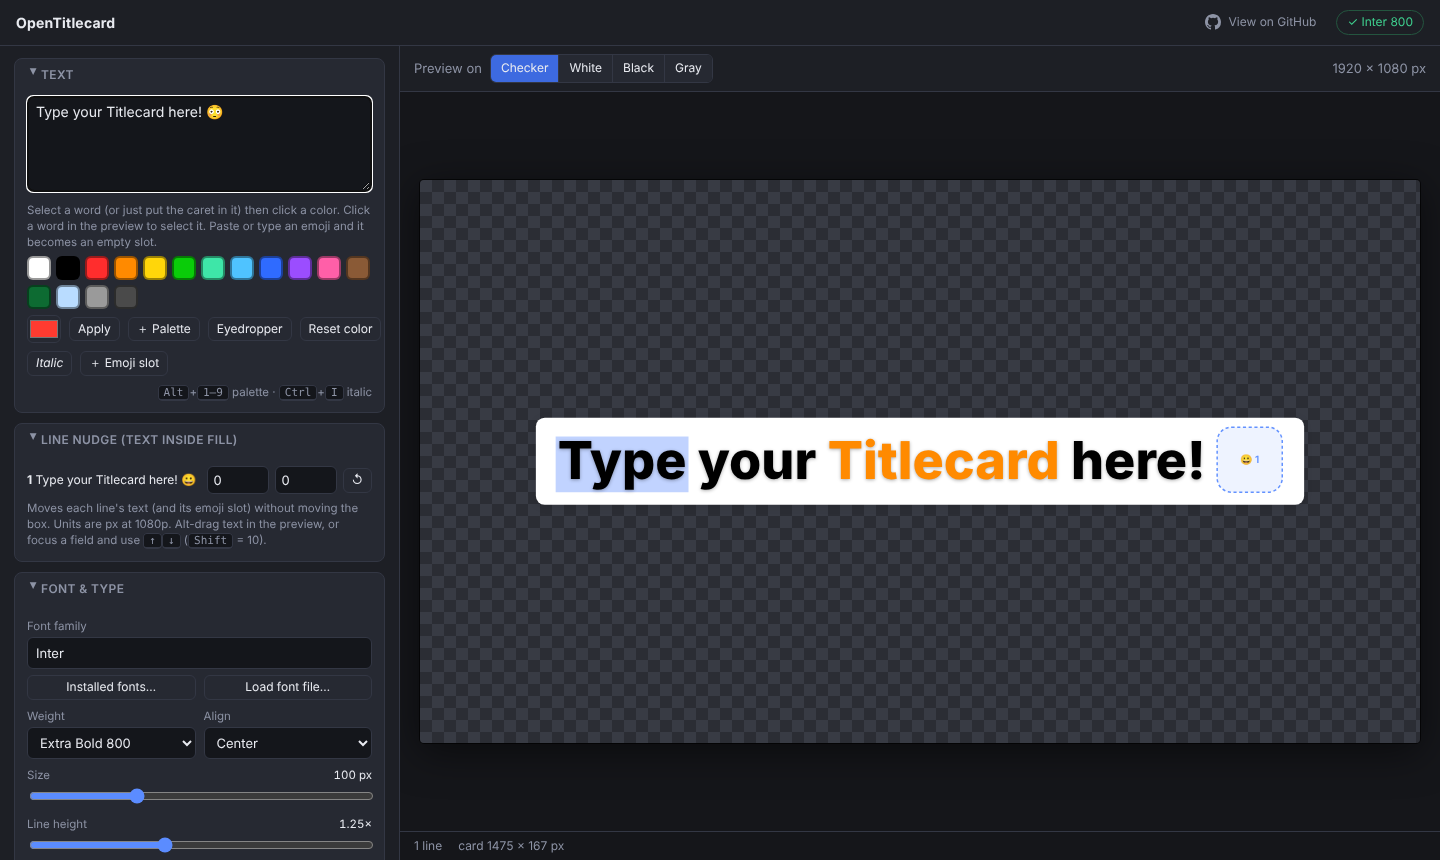
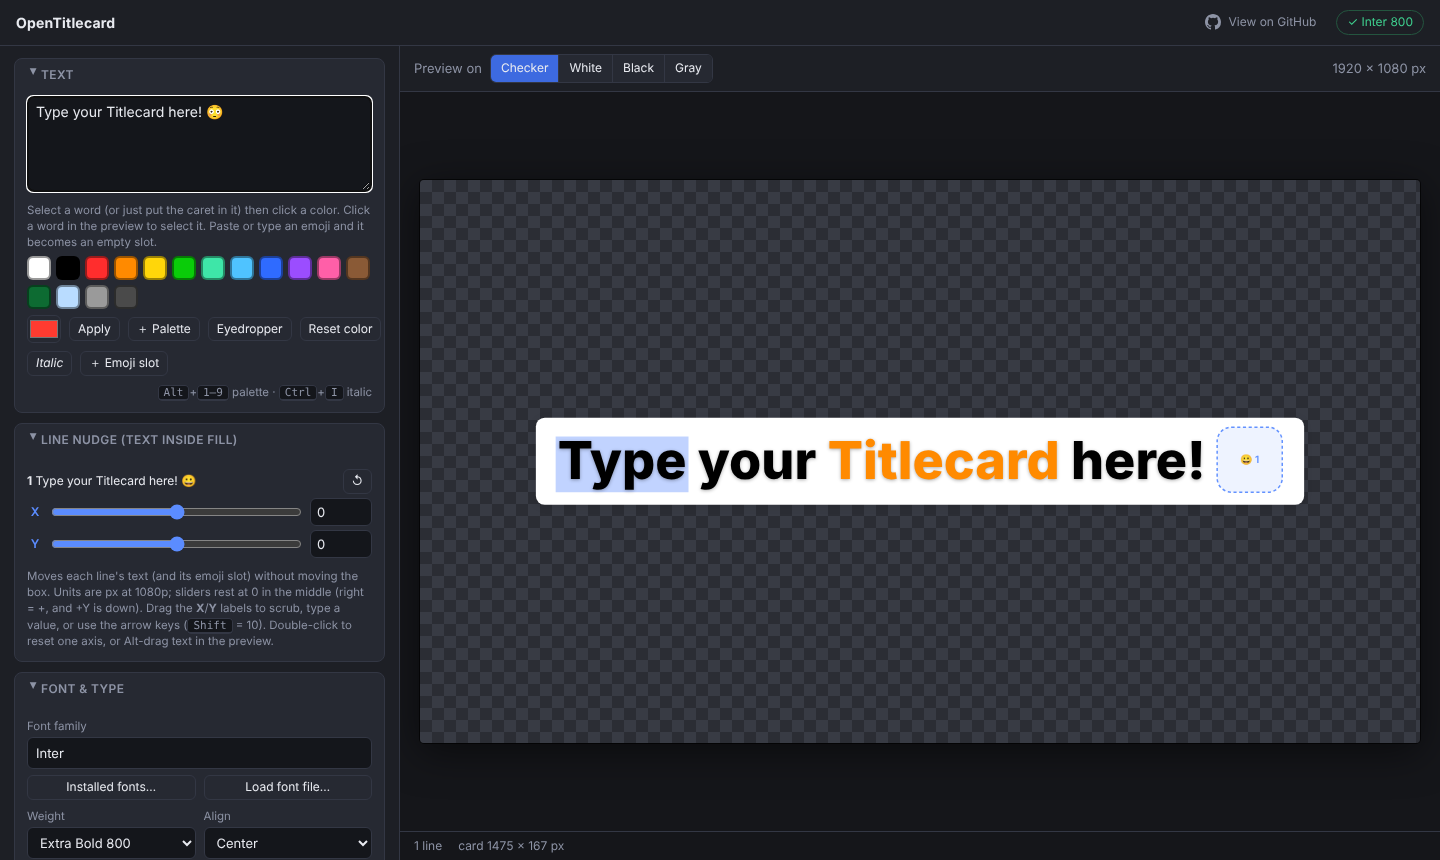
Add Premiere-style X/Y sliders for line nudges (closes #4)
Each line gets, per axis: a slider resting at 0 in the middle (left negative,
right positive, +Y down), a draggable X/Y label to scrub (Shift = 10x), and the
existing number field. All three read and write S.nudges. Arrow keys step by 1
(Shift = 10), double-click resets an axis, drags within +-2 of centre snap to 0,
the slider pins at +-200 while the number field keeps any typed value.

12 new Playwright tests (each of 4 mutants verified to fail). README, CLAUDE.md
and screenshot updated.

Claude-Session: https://claude.ai/code/session_01HzRfhZCyprzouzr7V3SFNZ

diff --git a/index.html b/index.html
@@ -51,9 +51,16 @@
   .sw:hover{outline:2px solid var(--accent);outline-offset:1px}
   .hint{color:var(--mute);font-size:11.5px;margin-top:6px}
   .val{float:right;color:var(--text);font-variant-numeric:tabular-nums}
-  .nudge{display:grid;grid-template-columns:1fr 62px 62px auto;gap:6px;align-items:center;margin:5px 0}
+  .nudge{display:grid;grid-template-columns:1fr auto;gap:4px 6px;align-items:center;margin:8px 0 10px;padding-bottom:9px;border-bottom:1px dashed var(--line)}
+  .nudge:last-child{border-bottom:0;padding-bottom:0}
   .nudge .nm{overflow:hidden;white-space:nowrap;text-overflow:ellipsis;font-size:12px}
-  .nudge input{padding:4px 6px}
+  .nudge .ax{grid-column:1 / -1;display:grid;grid-template-columns:16px 1fr 62px;gap:8px;align-items:center}
+  .nudge input[type=number]{padding:4px 6px}
+  .nudge .scrub{cursor:ew-resize;color:var(--accent);font-weight:600;font-size:12px;text-align:center;user-select:none;touch-action:none}
+  .nudge .slw{position:relative;display:flex;align-items:center}
+  .nudge .slw:before{content:"";position:absolute;left:50%;top:50%;width:1px;height:12px;margin-top:-6px;background:var(--mute);opacity:.55;pointer-events:none} /* centre (0) tick */
+  .nudge input[type=range]{margin:0;position:relative}
+  .nudge input:focus-visible,.nudge .scrub:focus-visible{outline:2px solid var(--accent);outline-offset:2px}
   .slotrow{font-variant-numeric:tabular-nums;font-size:12px;padding:4px 0;border-bottom:1px dashed var(--line);display:flex;gap:8px;align-items:center}
   .slotrow code{color:var(--accent);background:#14161b;padding:1px 6px;border-radius:4px}
   .toolbar{display:flex;gap:8px;align-items:center;padding:8px 14px;border-bottom:1px solid var(--line);background:var(--panel);flex-wrap:wrap}
@@ -110,7 +117,7 @@
     <summary>Line nudge (text inside fill)</summary>
     <div class="body">
       <div id="nudges"></div>
-      <div class="hint">Moves each line's text (and its emoji slot) without moving the box. Units are px at 1080p. Alt-drag text in the preview, or focus a field and use <kbd>↑</kbd><kbd>↓</kbd> (<kbd>Shift</kbd> = 10).</div>
+      <div class="hint">Moves each line's text (and its emoji slot) without moving the box. Units are px at 1080p; sliders rest at 0 in the middle (right = +, and +Y is down). Drag the <b>X</b>/<b>Y</b> labels to scrub, type a value, or use the arrow keys (<kbd>Shift</kbd> = 10). Double-click to reset one axis, or Alt-drag text in the preview.</div>
     </div>
   </details>
 
@@ -537,7 +544,19 @@ function updateSlotInfo(g){
 }
 
 /* ============ nudge rows ============ */
-let nudgeSig='';
+/* Each line gets an X and a Y control: a slider that rests in the middle (0), a scrub label (drag it) and a number
+   field. The slider track covers +-NUDGE_RANGE; the number field accepts any value, and the slider simply pins
+   to its end beyond that. S.nudges[i] = {x,y} is the single source of truth; every control reads and writes it. */
+const NUDGE_RANGE=200, NUDGE_DETENT=2;   // drags within +-2 of centre snap to exactly 0
+let nudgeSig='', sliderDrag=false;
+const nudgeVal=(i,a)=>(S.nudges[i]||{})[a]||0;
+function setNudge(i,a,v){ const n=S.nudges[i]||(S.nudges[i]={x:0,y:0}); n[a]=v; render(); }
+function axisHTML(i,a,v){
+  const A=a.toUpperCase();
+  return `<div class="ax"><span class="scrub" data-scrub="${a}" data-line="${i}" title="Drag to scrub ${A}. Shift = 10x. Double-click to reset.">${A}</span>
+    <div class="slw"><input type="range" min="${-NUDGE_RANGE}" max="${NUDGE_RANGE}" step="1" value="${clamp(v,-NUDGE_RANGE,NUDGE_RANGE)}" data-slider="${a}" data-line="${i}" aria-label="Line ${i+1} ${A} offset" title="${A}: centre = 0. Double-click to reset."></div>
+    <input type="number" step="1" data-i="${i}" data-a="${a}" value="${v}" title="${A}" aria-label="Line ${i+1} ${A} offset value"></div>`;
+}
 function syncNudgeRows(){
   const sig=L.lines.map(l=>l.items.map(i=>i.k==='t'?i.text:'·').join('')).join('|');
   const host=$('#nudges');
@@ -547,25 +566,56 @@ function syncNudgeRows(){
       const n=S.nudges[i]||(S.nudges[i]={x:0,y:0});
       const row=document.createElement('div'); row.className='nudge';
       const name=l.items.map(it=>it.k==='t'?it.text:'😀').join('');
-      row.innerHTML=`<div class="nm" title="${name.replace(/"/g,'&quot;')}"><b>${i+1}</b> ${name.replace(/</g,'&lt;')}</div>
-        <input type="number" step="1" data-i="${i}" data-a="x" value="${n.x}" title="X"><input type="number" step="1" data-i="${i}" data-a="y" value="${n.y}" title="Y"><button class="sm" data-reset="${i}" title="Reset">↺</button>`;
+      row.innerHTML=`<div class="nm" title="${name.replace(/"/g,'&quot;')}"><b>${i+1}</b> ${name.replace(/</g,'&lt;')}</div><button class="sm" data-reset="${i}" title="Reset both axes" aria-label="Reset line ${i+1} nudge">↺</button>`
+        +axisHTML(i,'x',n.x||0)+axisHTML(i,'y',n.y||0);
       host.appendChild(row);
     });
   } else {
-    host.querySelectorAll('input[data-i]').forEach(inp=>{ const v=(S.nudges[+inp.dataset.i]||{})[inp.dataset.a]||0; if(document.activeElement!==inp) inp.value=v; });
+    host.querySelectorAll('input[data-i]').forEach(inp=>{ const v=nudgeVal(+inp.dataset.i,inp.dataset.a); if(document.activeElement!==inp) inp.value=v; });
+    host.querySelectorAll('input[data-slider]').forEach(sl=>{ sl.value=clamp(nudgeVal(+sl.dataset.line,sl.dataset.slider),-NUDGE_RANGE,NUDGE_RANGE); });
   }
 }
-$('#nudges').addEventListener('input',e=>{
-  const t=e.target; if(!t.dataset.i) return;
-  const n=S.nudges[+t.dataset.i]||(S.nudges[+t.dataset.i]={x:0,y:0}); n[t.dataset.a]=+t.value||0; render();
+const nudgeHost=$('#nudges');
+nudgeHost.addEventListener('input',e=>{
+  const t=e.target;
+  if(t.dataset.slider){
+    let v=+t.value;
+    if(sliderDrag && Math.abs(v)<=NUDGE_DETENT) v=0;    // detent while dragging only, so keyboard steps still reach +-1
+    setNudge(+t.dataset.line,t.dataset.slider,v); return;
+  }
+  if(t.dataset.i) setNudge(+t.dataset.i,t.dataset.a,+t.value||0);
 });
-$('#nudges').addEventListener('keydown',e=>{
-  const t=e.target; if(!t.dataset||!t.dataset.i) return;
-  if((e.key==='ArrowUp'||e.key==='ArrowDown')&&e.shiftKey){ e.preventDefault(); t.value=(+t.value||0)+(e.key==='ArrowUp'?10:-10); t.dispatchEvent(new Event('input',{bubbles:true})); }
+nudgeHost.addEventListener('keydown',e=>{
+  const t=e.target; if(!t.dataset) return;
+  if(t.dataset.slider && e.shiftKey && /^Arrow/.test(e.key)){          // Shift+arrow = 10, like the number field
+    e.preventDefault(); const d=(e.key==='ArrowRight'||e.key==='ArrowUp')?10:-10;
+    setNudge(+t.dataset.line,t.dataset.slider,nudgeVal(+t.dataset.line,t.dataset.slider)+d); return;
+  }
+  if(t.dataset.i && (e.key==='ArrowUp'||e.key==='ArrowDown')&&e.shiftKey){ e.preventDefault(); t.value=(+t.value||0)+(e.key==='ArrowUp'?10:-10); t.dispatchEvent(new Event('input',{bubbles:true})); }
 });
-$('#nudges').addEventListener('click',e=>{
+nudgeHost.addEventListener('click',e=>{
   const b=e.target.closest('[data-reset]'); if(!b) return; S.nudges[+b.dataset.reset]={x:0,y:0}; nudgeSig=''; render();
 });
+nudgeHost.addEventListener('dblclick',e=>{
+  const t=e.target.closest('[data-slider],[data-scrub]'); if(!t) return;
+  setNudge(+t.dataset.line,t.dataset.slider||t.dataset.scrub,0);
+});
+// Scrubbing: drag the X/Y label sideways (1 px = 1 unit, Shift = 10). Accumulates per move so pressing Shift
+// mid-drag changes speed without making the value jump.
+let scrub=null;
+nudgeHost.addEventListener('pointerdown',e=>{
+  if(e.target.dataset && e.target.dataset.slider) sliderDrag=true;
+  const t=e.target.closest('[data-scrub]'); if(!t) return;
+  e.preventDefault(); t.setPointerCapture(e.pointerId);
+  scrub={line:+t.dataset.line,a:t.dataset.scrub,x:e.clientX,v:nudgeVal(+t.dataset.line,t.dataset.scrub)};
+});
+nudgeHost.addEventListener('pointermove',e=>{
+  if(!scrub) return;
+  scrub.v+=(e.clientX-scrub.x)*(e.shiftKey?10:1); scrub.x=e.clientX;
+  setNudge(scrub.line,scrub.a,Math.round(scrub.v));
+});
+const endNudgeDrag=()=>{ scrub=null; sliderDrag=false; };
+window.addEventListener('pointerup',endNudgeDrag); window.addEventListener('pointercancel',endNudgeDrag);
 
 /* ============ text input + run attributes ============ */
 const ta=$('#text');

diff --git a/tests/nudge-sliders.spec.js b/tests/nudge-sliders.spec.js
@@ -1,0 +1,153 @@
+const { test, expect, setText, settle } = require('./helpers');
+
+// Premiere-style X/Y controls for each line's text nudge (issue #4).
+const slider = (page, line, axis) => page.locator(`#nudges input[data-slider="${axis}"][data-line="${line}"]`);
+const number = (page, line, axis) => page.locator(`#nudges input[data-i="${line}"][data-a="${axis}"]`);
+const scrubber = (page, line, axis) => page.locator(`#nudges [data-scrub="${axis}"][data-line="${line}"]`);
+const nudge = (page, i) => page.evaluate((i) => ({ ...__tt.S.nudges[i] }), i);
+
+async function centerOf(loc) {
+  const b = await loc.boundingBox();
+  return { x: b.x + b.width / 2, y: b.y + b.height / 2, w: b.width };
+}
+
+test.describe('line nudge sliders', () => {
+  test('every line has an X and a Y slider resting at the exact middle', async ({ app: { page } }) => {
+    await setText(page, 'First line\nSecond');
+    await expect(page.locator('#nudges .nudge')).toHaveCount(2);
+    for (const line of [0, 1]) for (const axis of ['x', 'y']) {
+      const s = slider(page, line, axis);
+      await expect(s).toHaveAttribute('min', '-200');
+      await expect(s).toHaveAttribute('max', '200');
+      await expect(s).toHaveValue('0'); // value 0 of a symmetric range = middle of the track
+      await expect(s).toHaveAttribute('aria-label', `Line ${line + 1} ${axis.toUpperCase()} offset`);
+    }
+  });
+
+  test('left of centre is negative, right is positive (keyboard)', async ({ app: { page } }) => {
+    await slider(page, 0, 'x').focus();
+    await page.keyboard.press('ArrowRight');
+    expect((await nudge(page, 0)).x).toBe(1);
+    await page.keyboard.press('ArrowLeft'); await page.keyboard.press('ArrowLeft');
+    expect((await nudge(page, 0)).x).toBe(-1); // steps of 1, and it can cross zero both ways
+    await slider(page, 0, 'y').focus();
+    await page.keyboard.press('ArrowRight');
+    expect((await nudge(page, 0)).y).toBe(1);
+    await settle(page);
+    expect(await page.evaluate(() => __tt.L.lines[0].ny)).toBeGreaterThan(0); // +Y moves the text down, like Premiere
+  });
+
+  test('dragging the thumb left gives a negative value, right a positive one, live in the preview', async ({ app: { page } }) => {
+    const s = slider(page, 0, 'x');
+    const c = await centerOf(s);
+    await page.mouse.move(c.x, c.y); await page.mouse.down();
+    await page.mouse.move(c.x - c.w * 0.25, c.y, { steps: 6 });
+    const during = await nudge(page, 0); // still mouse-down: the preview already follows
+    expect(during.x).toBeLessThan(-20);
+    await page.mouse.up();
+    await expect(number(page, 0, 'x')).toHaveValue(String(during.x));
+    await settle(page);
+    expect(await page.evaluate(() => __tt.L.lines[0].nx)).toBe(during.x);
+    // and to the right of centre
+    const c2 = await centerOf(s);
+    await page.mouse.move(c2.x, c2.y); await page.mouse.down();
+    await page.mouse.move(c2.x + c2.w * 0.4, c2.y, { steps: 6 }); await page.mouse.up();
+    expect((await nudge(page, 0)).x).toBeGreaterThan(0);
+  });
+
+  test('a small drag near the centre snaps to exactly 0', async ({ app: { page } }) => {
+    const s = slider(page, 0, 'x');
+    const c = await centerOf(s);
+    await page.mouse.move(c.x, c.y); await page.mouse.down();
+    await page.mouse.move(c.x + 1, c.y); await page.mouse.up(); // 1px is ~1.6 units on this track
+    expect((await nudge(page, 0)).x).toBe(0);
+    await expect(s).toHaveValue('0');
+  });
+
+  test('the slider and the number field stay in sync both ways', async ({ app: { page } }) => {
+    await page.fill('#nudges input[data-i="0"][data-a="y"]', '75');
+    await expect(slider(page, 0, 'y')).toHaveValue('75');
+    await slider(page, 0, 'y').focus();
+    await page.keyboard.press('ArrowLeft');
+    await expect(number(page, 0, 'y')).toHaveValue('74');
+    // programmatic / preview changes (Alt-drag uses the same state) show up in the sliders too
+    await page.evaluate(() => { __tt.S.nudges[0] = { x: 25, y: -5 }; __tt.renderNow(); });
+    await expect(slider(page, 0, 'x')).toHaveValue('25');
+    await expect(slider(page, 0, 'y')).toHaveValue('-5');
+  });
+
+  test('typing past the slider range keeps the real value; the slider pins to its end', async ({ app: { page } }) => {
+    await page.fill('#nudges input[data-i="0"][data-a="x"]', '350');
+    await expect(slider(page, 0, 'x')).toHaveValue('200');
+    await expect(number(page, 0, 'x')).toHaveValue('350');
+    expect((await nudge(page, 0)).x).toBe(350);
+    await page.fill('#nudges input[data-i="0"][data-a="x"]', '-999');
+    await expect(slider(page, 0, 'x')).toHaveValue('-200');
+    expect((await nudge(page, 0)).x).toBe(-999);
+  });
+
+  test('double-click resets that axis only, and the thumb returns to the exact middle', async ({ app: { page } }) => {
+    await page.fill('#nudges input[data-i="0"][data-a="x"]', '60');
+    await page.fill('#nudges input[data-i="0"][data-a="y"]', '-30');
+    await slider(page, 0, 'x').dblclick();
+    expect(await nudge(page, 0)).toEqual({ x: 0, y: -30 });
+    await expect(slider(page, 0, 'x')).toHaveValue('0');
+    await scrubber(page, 0, 'y').dblclick();
+    expect(await nudge(page, 0)).toEqual({ x: 0, y: 0 });
+    await expect(slider(page, 0, 'y')).toHaveValue('0');
+  });
+
+  test('Shift+Arrow on a slider steps by 10', async ({ app: { page } }) => {
+    await slider(page, 0, 'x').focus();
+    await page.keyboard.press('Shift+ArrowRight');
+    expect((await nudge(page, 0)).x).toBe(10);
+    await page.keyboard.press('Shift+ArrowLeft'); await page.keyboard.press('Shift+ArrowLeft');
+    expect((await nudge(page, 0)).x).toBe(-10);
+  });
+
+  test('dragging the X/Y label scrubs the value; Shift scrubs 10x faster', async ({ app: { page } }) => {
+    const c = await centerOf(scrubber(page, 0, 'x'));
+    await page.mouse.move(c.x, c.y); await page.mouse.down();
+    await page.mouse.move(c.x + 30, c.y, { steps: 5 });
+    expect((await nudge(page, 0)).x).toBe(30);
+    await page.keyboard.down('Shift');
+    await page.mouse.move(c.x + 35, c.y, { steps: 1 }); // +5px at 10x = +50
+    await page.keyboard.up('Shift');
+    await page.mouse.up();
+    expect((await nudge(page, 0)).x).toBe(80);
+    await expect(slider(page, 0, 'x')).toHaveValue('80');
+    await expect(number(page, 0, 'x')).toHaveValue('80');
+  });
+
+  test('sliders move only the text, never the box', async ({ app: { page } }) => {
+    await setText(page, 'One\nTwo words');
+    const before = await settle(page);
+    await slider(page, 1, 'x').focus();
+    for (let i = 0; i < 25; i++) await page.keyboard.press('ArrowRight');
+    const after = await settle(page);
+    expect(after.lines[1].nx).toBe(25);
+    expect([after.cardW, after.cardH]).toEqual([before.cardW, before.cardH]);
+    expect(after.lines.map((l) => [l.x0, l.x1, l.y0, l.y1])).toEqual(before.lines.map((l) => [l.x0, l.x1, l.y0, l.y1]));
+  });
+
+  test('rows and sliders follow the line count and keep each line\'s value', async ({ app: { page } }) => {
+    await setText(page, 'a\nb');
+    await page.fill('#nudges input[data-i="0"][data-a="x"]', '30');
+    await setText(page, 'a\nb\nc');
+    await expect(page.locator('#nudges input[data-slider]')).toHaveCount(6);
+    await expect(slider(page, 0, 'x')).toHaveValue('30');
+    await expect(slider(page, 2, 'y')).toHaveValue('0');
+    await setText(page, 'a');
+    await expect(page.locator('#nudges input[data-slider]')).toHaveCount(2);
+  });
+
+  test('the reset button still zeroes both axes and both controls', async ({ app: { page } }) => {
+    await page.fill('#nudges input[data-i="0"][data-a="x"]', '30');
+    await page.fill('#nudges input[data-i="0"][data-a="y"]', '-30');
+    await page.click('#nudges [data-reset="0"]');
+    expect(await nudge(page, 0)).toEqual({ x: 0, y: 0 });
+    await expect(slider(page, 0, 'x')).toHaveValue('0');
+    await expect(slider(page, 0, 'y')).toHaveValue('0');
+    await expect(number(page, 0, 'x')).toHaveValue('0');
+  });
+});

diff --git a/README.md b/README.md
@@ -28,7 +28,7 @@ OpenTitlecard fixes each of those. Emoji are handled as an empty, correctly-size
 - **Emoji slots.** Type or paste an emoji and it becomes a blank slot in the layout. The background box wraps around it exactly as it would around the real thing. The slot is outlined in the preview only, never in the export.
 - **Smart background box.** Each line gets its own rounded box, with inverse corners where line widths differ, like TikTok's own captions. The box grows downward automatically when descenders (`g`, `y`, `p`, `q`, `j`) or an emoji would crowd the bottom edge.
 - **Optional auto-wrap.** Set a **Max card width** and long lines wrap at spaces to fit, with the padding included. Your own line breaks always win, and color, italic and emoji slots carry through the wrap.
-- **Line nudge.** Fine-tune the X/Y position of each line's text inside its box. Use the fields, arrow keys (**Shift** = 10px), or **Alt**-drag a line in the preview.
+- **Line nudge.** Fine-tune the X/Y position of each line's text inside its box with Premiere-style controls: a slider per axis that rests at 0 in the middle (left = negative, right = positive, +Y is down), a number field, and a draggable **X**/**Y** label to scrub. Arrow keys step by 1 (**Shift** = 10), double-click resets an axis, and **Alt**-drag a line in the preview works too.
 - **Bring your own font.** Pick any installed font, or load a `.ttf`, `.otf`, `.woff` or `.woff2` file for a client's brand font.
 - **Background control.** Color, opacity, padding, corner radius, top/bottom margins, and optional soft shadows. Text outline and text shadow are available too.
 - **Transparent PNG export.** Full-frame at 1920×1080, 1080×1920, 3840×2160, 1080×1080, 1080×1350 or a custom size, or a tight crop of just the card at up to 4×.

diff --git a/CLAUDE.md b/CLAUDE.md
@@ -26,7 +26,7 @@ Tooling note: in Claude Code web sessions `gh pr create` fails because GraphQL i
 
 GitHub Actions (`.github/workflows/ci.yml`) runs the Playwright suite in headless Chromium on every pull request and every push to `main`. A PR is only ready when CI is green. The maintainer still reviews and merges.
 
-- Tests live in `tests/`: `app.spec.js` (loading, fonts, emoji slots, colour/italic, preview interaction, nudge), `geometry.spec.js` (box rules, descender clearance regression), `wrap.spec.js` (auto-wrap), `export.spec.js` (PNG output), `storage-and-presets.spec.js`.
+- Tests live in `tests/`: `app.spec.js` (loading, fonts, emoji slots, colour/italic, preview interaction, nudge), `geometry.spec.js` (box rules, descender clearance regression), `wrap.spec.js` (auto-wrap), `nudge-sliders.spec.js` (X/Y nudge sliders), `export.spec.js` (PNG output), `storage-and-presets.spec.js`.
 - `tests/helpers.js` has the shared fixture. It opens the app, loads the pinned Inter font through the app's own **Load font file…** input, and fails any test that logs a page error, console error or dialog.
 - Dependencies are **dev-only** (`@playwright/test`, `@fontsource/inter`), pinned exactly, with `package-lock.json` committed. The app has no runtime dependencies. Don't add any.
 - Keep `window.__tt` (state `S`, layout `L`, `render`, `renderNow`, `exportGeometry`, `draw`) stable. The tests depend on it. If you must change it, update the tests in the same branch.
